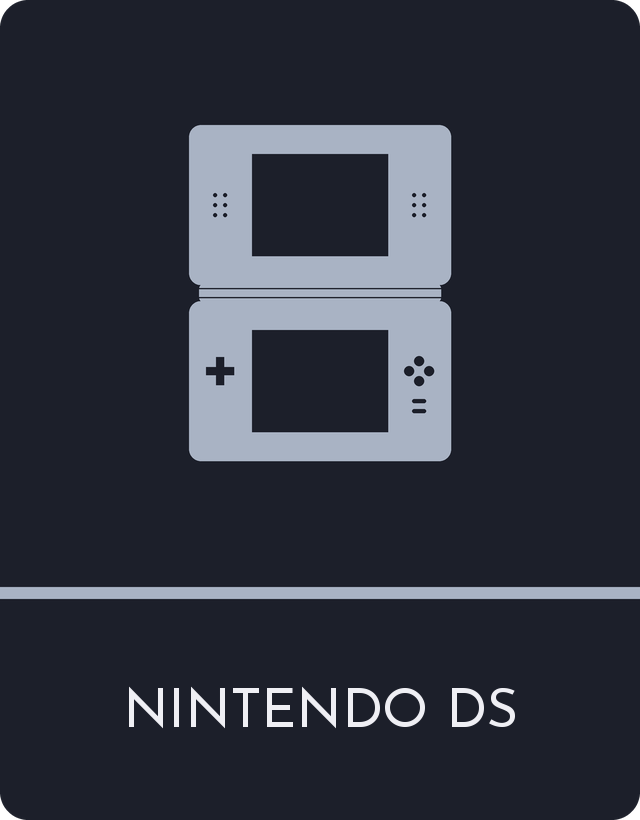
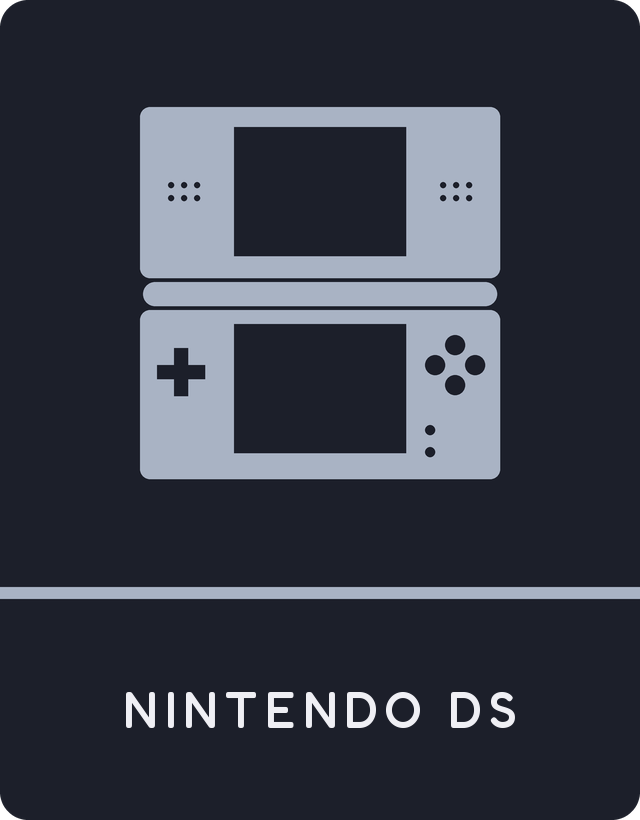
cards: the classic DS card drawn from the DS Lite's own proportions (plorpos-3yv.48)
Measured off a product photo: nearly square open, two shells with small
corners and the round-ended hinge barrel between them set off by a hair of
card stock, half-width screens, 3x2 grilles, the d-pad high on the left,
ABXY and start/select on the right.

diff --git a/tools/gendscard.py b/tools/gendscard.py
@@ -37,54 +37,53 @@ def s(*v):
 
 
 def mark(d, cx, top):
-    """An open DS Lite, front on: two crisp shells with small corners (the
-    Lite's, not the original's soft ovals), the hinge barrel across almost the
-    whole width, speaker grilles beside the top screen, and the d-pad, four
-    buttons and start/select on the lower shell - all punched out."""
+    """An open DS Lite, front on, in its own proportions (measured off a
+    product photo at 0.465 scale): nearly square overall, two shells with
+    small corners, and between them the hinge barrel - nearly the full width,
+    round-ended, set off from both shells by a hair of card stock. Screens at
+    about half the width, 3x2 speaker grilles beside the top one, the d-pad
+    high on the left, ABXY as a diamond on the right and start/select below
+    it - all punched out to the card stock."""
     acc, stock = ACCENT + (255,), STOCK + (255,)
-    sw, sh, r = 262, 160, 12           # one shell
-    hinge = 16                         # the barrel between them
-    x0 = cx - sw // 2
-    y_top, y_bot = top, top + sh + hinge
+    W_, r = 360, 10
+    x0 = cx - W_ // 2
+    top_h, gap, barrel = 171, 4, 24
+    y_bar = top + top_h + gap
+    y_bot = y_bar + barrel + gap
+    bot_h = 372 - (y_bot - top)
 
-    d.rounded_rectangle(s(x0, y_top, x0 + sw, y_top + sh), radius=r * SS, fill=acc)
-    d.rounded_rectangle(s(x0, y_bot, x0 + sw, y_bot + sh), radius=r * SS, fill=acc)
-    # The barrel: nearly the full width, its own small rounding, and a hair
-    # of card stock either side of it so the two shells still read as two.
-    d.rectangle(s(x0, y_top + sh, x0 + sw, y_bot), fill=stock)
-    d.rounded_rectangle(s(x0 + 10, y_top + sh - 2, x0 + sw - 10, y_bot + 2),
-                        radius=6 * SS, fill=acc)
-    d.rectangle(s(x0 + 10, y_top + sh + 3, x0 + sw - 10, y_top + sh + 4), fill=stock)
-    d.rectangle(s(x0 + 10, y_bot - 4, x0 + sw - 10, y_bot - 3), fill=stock)
+    d.rounded_rectangle(s(x0, top, x0 + W_, top + top_h), radius=r * SS, fill=acc)
+    d.rounded_rectangle(s(x0, y_bot, x0 + W_, y_bot + bot_h), radius=r * SS, fill=acc)
+    d.rounded_rectangle(s(x0 + 3, y_bar, x0 + W_ - 3, y_bar + barrel),
+                        radius=(barrel // 2) * SS, fill=acc)
 
-    # Screens, 4:3, the same size top and bottom as on the hardware.
-    scr_w, scr_h = 136, 102
-    sx = cx - scr_w // 2
-    ty = y_top + (sh - scr_h) // 2
-    by = y_bot + (sh - scr_h) // 2
-    d.rectangle(s(sx, ty, sx + scr_w, ty + scr_h), fill=stock)
-    d.rectangle(s(sx, by, sx + scr_w, by + scr_h), fill=stock)
+    # Screens, 4:3 and the same size, centered.
+    sw_, sh_ = 172, 129
+    sx = cx - sw_ // 2
+    d.rectangle(s(sx, top + 20, sx + sw_, top + 20 + sh_), fill=stock)
+    d.rectangle(s(sx, y_bot + 14, sx + sw_, y_bot + 14 + sh_), fill=stock)
 
-    # Speaker grilles: a 2x3 block of dots either side of the top screen.
-    for gx in (x0 + (sx - x0) // 2, sx + scr_w + (x0 + sw - sx - scr_w) // 2):
-        for row in range(3):
-            for col in range(2):
-                px, py = gx - 5 + col * 10, y_top + sh // 2 - 10 + row * 10
-                d.ellipse(s(px - 2, py - 2, px + 2, py + 2), fill=stock)
+    # Speaker grilles: three across, two down, either side of the top screen.
+    gy = top + top_h // 2 - 7
+    for gx in (x0 + 44, x0 + W_ - 44):
+        for row in range(2):
+            for col in range(3):
+                px, py = gx - 13 + col * 13, gy + row * 13
+                d.ellipse(s(px - 3, py - 3, px + 3, py + 3), fill=stock)
 
-    # D-pad left of the lower screen, ABXY right, start/select under them.
-    my = y_bot + sh // 2 - 10
-    dx = x0 + (sx - x0) // 2
-    arm, th = 14, 9
-    d.rectangle(s(dx - arm, my - th // 2, dx + arm, my + th // 2), fill=stock)
-    d.rectangle(s(dx - th // 2, my - arm, dx + th // 2, my + arm), fill=stock)
-    bx = sx + scr_w + (x0 + sw - sx - scr_w) // 2
-    br, off = 5, 10
+    # D-pad: high on the left of the lower shell.
+    dx, dy = x0 + 41, y_bot + 62
+    arm, th = 24, 15
+    d.rectangle(s(dx - arm, dy - th // 2, dx + arm, dy + th // 2), fill=stock)
+    d.rectangle(s(dx - th // 2, dy - arm, dx + th // 2, dy + arm), fill=stock)
+    # ABXY, a diamond on the right; start and select below it.
+    bx, by = x0 + W_ - 45, y_bot + 55
+    br, off = 10, 20
     for ox, oy in ((0, -off), (0, off), (-off, 0), (off, 0)):
-        d.ellipse(s(bx + ox - br, my + oy - br, bx + ox + br, my + oy + br), fill=stock)
+        d.ellipse(s(bx + ox - br, by + oy - br, bx + ox + br, by + oy + br), fill=stock)
     for k in range(2):
-        py = my + 30 + k * 10
-        d.rounded_rectangle(s(bx - 7, py - 2, bx + 7, py + 2), radius=2 * SS, fill=stock)
+        py = y_bot + 120 + k * 22
+        d.ellipse(s(bx - 25 - 5, py - 5, bx - 25 + 5, py + 5), fill=stock)
 
 
 def main():
@@ -92,8 +91,8 @@ def main():
     d = ImageDraw.Draw(im)
     d.rounded_rectangle([0, 0, W * SS - 1, H * SS - 1], radius=RADIUS * SS, fill=STOCK + (255,))
     d.rectangle([0, RULE_Y * SS, W * SS - 1, (RULE_Y + RULE_H) * SS - 1], fill=ACCENT + (255,))
-    # Centered on the panel above the rule: 336 px of mark in ~587.
-    mark(d, W // 2, (RULE_Y - 336) // 2)
+    # Centered on the panel above the rule: 372 px of mark in ~587.
+    mark(d, W // 2, (RULE_Y - 372) // 2)
     im = im.resize((W, H), Image.LANCZOS)
     d = ImageDraw.Draw(im)
     f = ImageFont.truetype(FONT, 54)
